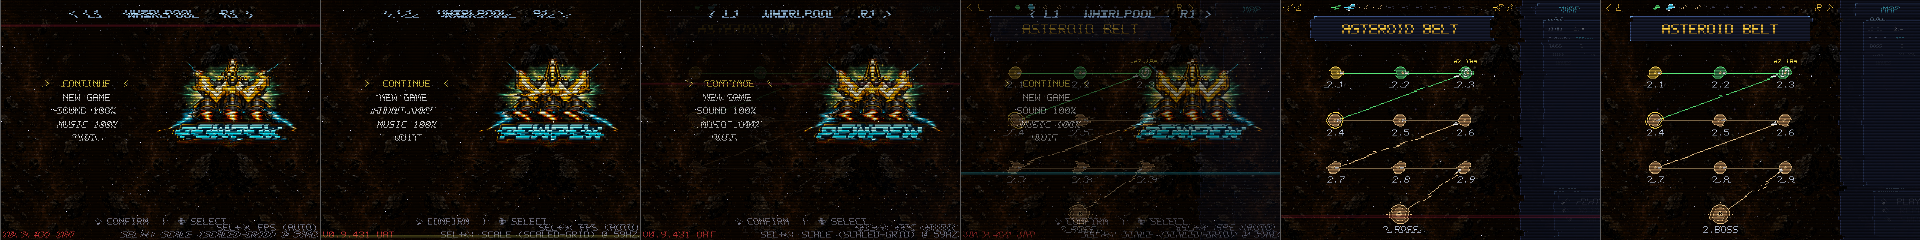
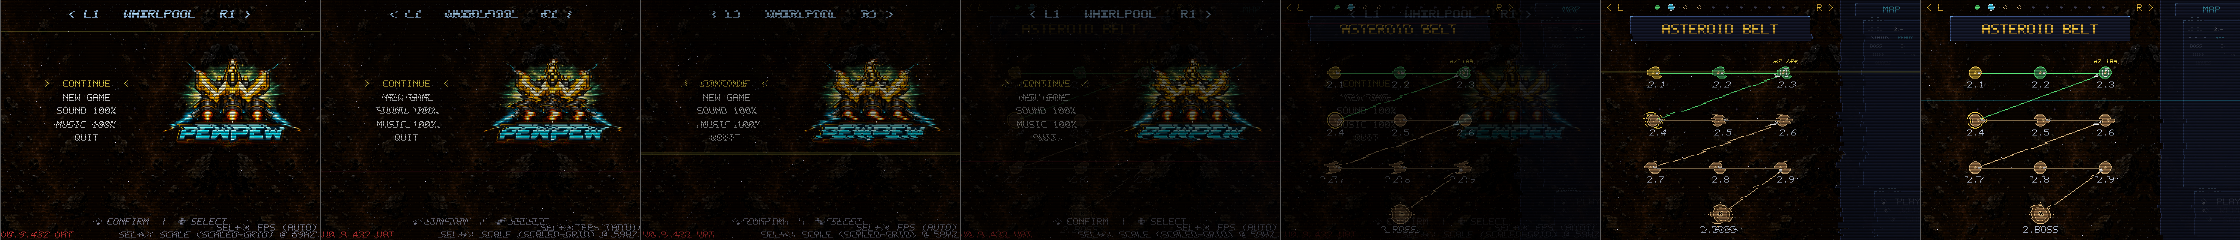
v0.9.433: transition — darkening (black) back on top of the crossfade + fixed-dt
- Darkening restored: each layer fades to/from black on the same ease-in curve as
  the pre-crossfade behaviour (OLD darkens to black over its life, NEW brightens
  from black) via a per-layer black overlay (_fx_levels odark/ndark, applied in
  _fx_layer + the software path). Layered on the crossfade, so the transition dips
  dark through the middle while the old glitching frame still fades over the new —
  no longer a fully clean crossfade.
- Transition now advances by a FIXED 1/FPS step (not the real frame dt), so on a
  slow device it stretches in wall-clock time but never skips effect frames.

Verified host GPU + software: title->map runs 35 fx-frames (fixed dt), dark dip
visible mid-transition, no crash. Ref: screenshots/transition_crossfade.png.

diff --git a/pewpew.py b/pewpew.py
@@ -140,7 +140,7 @@ def _web_is_touch():
 # features, major for big-rewrites. Skipping the bump means the next user
 # sees the same number and can't tell if they're on the latest build.
 # ──────────────────────────────────────────────────────────────────────────
-VERSION = "0.9.432"
+VERSION = "0.9.433"
 
 # ──────────────────────────────────────────────────────────────────────────
 # HUD layout suppression
@@ -27463,7 +27463,10 @@ class App:
         the new frame is captured, all hidden under the still-opaque old frame.
         Wrapped so any failure falls back to an instant transition."""
         try:
-            self._fx_t += dt
+            # Advance by a FIXED 1/FPS step, not the real frame dt — so on a slow
+            # device the transition stretches in wall-clock time but never skips
+            # effect frames (every glitch/crossfade frame is drawn).
+            self._fx_t += 1.0 / FPS
             self._fx_frame += 1
             t = self._fx_t
             if t >= _FX_IN_START and not self._fx_swapped:
@@ -27494,50 +27497,61 @@ class App:
         except Exception:
             self._fx_abort()
 
-    def _fx_layer(self, tex, intensity, contrast):
+    def _fx_layer(self, tex, intensity, contrast, darken=0):
         """GPU: draw one frozen frame `tex` into the CURRENT (already-bound +
-        cleared) target with the contrast pre-pass + CRT glitch. Seed `random`
-        before calling so the OLD and NEW layers tear IDENTICALLY in a frame."""
+        cleared) target with the contrast pre-pass + CRT glitch, then a black
+        overlay at `darken` (the fade-to/from-black). Seed `random` before
+        calling so the OLD and NEW layers tear IDENTICALLY in a frame."""
         g = self.gpu
+        rect = (0, 0, SCREEN_W, SCREEN_H)
         rr = pygame.Rect(0, 0, SCREEN_W, SCREEN_H)
         g.blit(tex, rr)
         if contrast > 0.0:
             g.blit(tex, rr, blend=_BLEND_ADD,
                    alpha=int(255 * _FX_CONTRAST_MAX * min(1.0, contrast)))
-        _apply_crt_glitch_gpu(g, tex, (0, 0, SCREEN_W, SCREEN_H), intensity,
+        _apply_crt_glitch_gpu(g, tex, rect, intensity,
                               profile=_FX_CRT_PROFILE,
                               scanline_cache=self._fx_scanlines(), draw_base=False)
+        if darken > 0:
+            g.fill_rect(rect, (0, 0, 0, min(255, darken)))
 
     def _fx_levels(self, t):
-        """(new_intensity, new_contrast, old_intensity, old_contrast, old_alpha,
-        new_active, old_active) for crossfade time `t`. Old glitch ramps up
-        MIN→MAX over its first 1/3; new glitch ramps down MAX→0 over its last
-        1/3 — so through the overlap BOTH sit at MAX (identical tearing). Old
-        opacity fades 1→0 (ease-in curve) across the overlap."""
+        """Per-layer levels for crossfade time `t`. Old glitch ramps up MIN→MAX
+        over its first 1/3; new glitch ramps down MAX→0 over its last 1/3 — so
+        through the overlap BOTH sit at MAX (identical tearing). Old opacity
+        fades 1→0 (ease-in curve) across the overlap. DARKEN: each frame also
+        fades to/from black on the same ease-in curve as the old fade-to-black /
+        fade-in behaviour — old darkens to black over its life, new brightens
+        from black over its. Returns
+        (new_active, ni, nc, ndark, old_active, oi, oc, odark, old_alpha)."""
         new_active = t >= _FX_IN_START and self._fx_new is not None
         old_active = t < _FX_OUT_DUR and self._fx_old is not None
         ni = nc = oi = oc = 0.0
+        ndark = odark = 0
         old_alpha = 255
         if new_active:
             inp = min(1.0, max(0.0, (t - _FX_IN_START) / _FX_IN_DUR))
             nc = min(1.0, (1.0 - inp) / _FX_RAMP_FRAC)
             ni = _FX_GLITCH_MAX * nc
+            ndark = int(255 * (1.0 - inp) ** _FX_FADE_CURVE)   # brighten from black
         if old_active:
             outp = min(1.0, t / _FX_OUT_DUR)
             oc = min(1.0, outp / _FX_RAMP_FRAC)
             oi = _FX_GLITCH_MIN + (_FX_GLITCH_MAX - _FX_GLITCH_MIN) * oc
+            odark = int(255 * outp ** _FX_FADE_CURVE)          # darken to black
             if new_active:   # overlap → old fades out over the new
                 f = min(1.0, max(0.0, (t - _FX_IN_START) /
                                  (_FX_OUT_DUR - _FX_IN_START)))
                 old_alpha = int(255 * (1.0 - f ** _FX_FADE_CURVE))
-        return ni, nc, oi, oc, old_alpha, new_active, old_active
+        return new_active, ni, nc, ndark, old_active, oi, oc, odark, old_alpha
 
     def _fx_compose(self, t):
         """Crossfade compose: NEW frame opaque underneath (glitching), OLD frame
         glitching on top fading its opacity out. Both seeded with the same
         per-frame value so their tears line up. GPU draws to the backbuffer
         (gpu_native handoff to _present); software composites onto self.screen."""
-        ni, nc, oi, oc, old_alpha, new_active, old_active = self._fx_levels(t)
+        (new_active, ni, nc, ndark,
+         old_active, oi, oc, odark, old_alpha) = self._fx_levels(t)
         rect = (0, 0, SCREEN_W, SCREEN_H)
         rr = pygame.Rect(0, 0, SCREEN_W, SCREEN_H)
         seed = self._fx_frame & 0x7fffffff
@@ -27553,22 +27567,23 @@ class App:
                     g.set_target(comp)
                     g.begin(BLACK)
                     random.seed(seed)
-                    self._fx_layer(self._fx_old, oi, oc)
+                    self._fx_layer(self._fx_old, oi, oc, odark)
                     g.set_target(None)
                 # Output backbuffer.
                 g.set_target(None)
                 g.begin(BLACK)
                 if new_active:
                     random.seed(seed)
-                    self._fx_layer(self._fx_new, ni, nc)
+                    self._fx_layer(self._fx_new, ni, nc, ndark)
                 if old_active and not overlap:
                     random.seed(seed)            # only OLD (pre-overlap) — opaque
-                    self._fx_layer(self._fx_old, oi, oc)
+                    self._fx_layer(self._fx_old, oi, oc, odark)
                 if overlap:
                     g.blit(comp, rr, alpha=old_alpha)
                 self.gpu_native = True
                 return
-            # Software: NEW opaque + glitch, then OLD glitched (copy) at old_alpha.
+            # Software: NEW opaque + glitch + darken, then OLD glitched+darkened
+            # (copy) at old_alpha.
             scan = self._fx_scanlines()
             if new_active:
                 self.screen.blit(self._fx_new, (0, 0))
@@ -27576,12 +27591,22 @@ class App:
                     random.seed(seed)
                     _apply_crt_glitch(self.screen, rect, ni,
                                       profile=_FX_CRT_PROFILE, scanline_cache=scan)
+                if ndark > 0:
+                    ov = pygame.Surface((SCREEN_W, SCREEN_H))
+                    ov.fill(BLACK)
+                    ov.set_alpha(min(255, ndark))
+                    self.screen.blit(ov, (0, 0))
             if old_active:
                 olay = self._fx_old.copy()
                 if oi > 0.01:
                     random.seed(seed)
                     _apply_crt_glitch(olay, rect, oi,
                                       profile=_FX_CRT_PROFILE, scanline_cache=scan)
+                if odark > 0:
+                    ov = pygame.Surface((SCREEN_W, SCREEN_H))
+                    ov.fill(BLACK)
+                    ov.set_alpha(min(255, odark))
+                    olay.blit(ov, (0, 0))
                 olay.set_alpha(old_alpha if new_active else 255)
                 self.screen.blit(olay, (0, 0))
         finally:
